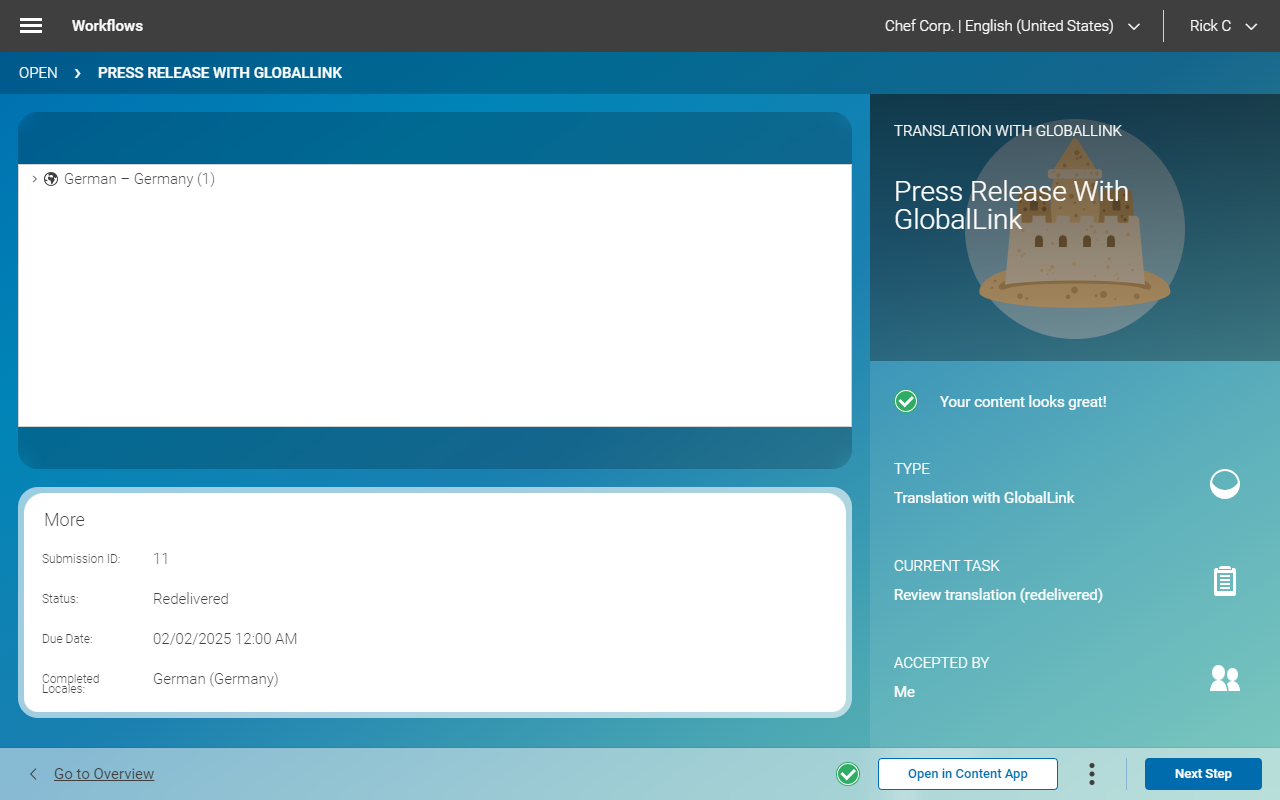
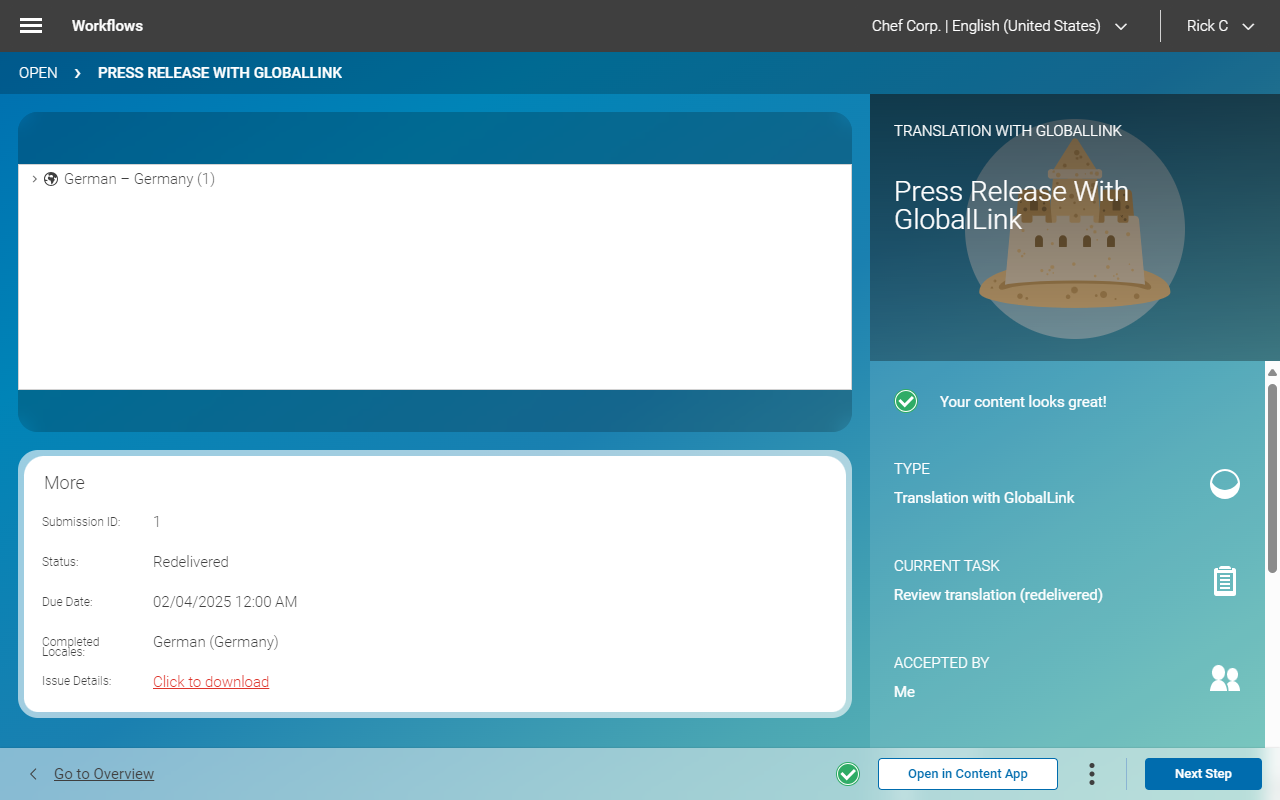
docs: Update Redelivered Section (Editorial Quickstart)
Updated the screenshot to also contain the download XLIFF
button. Also, enhanced the documentation for error handling
to point to the XLIFF download button, available for some
error handling scenarios (invalid XLIFF).

diff --git a/docs/editorial-quick-start.md b/docs/editorial-quick-start.md
@@ -44,6 +44,10 @@ available.
 In case an error occurs, the workflow re-appears in your inbox, and you can 
 select to cancel the workflow, or you can try to fix the problem and retry.
 
+If there was an issue with the XLIFF retrieved from the GCC backend (such as
+being corrupted or invalid), you will have the option to download the XLIFF
+as well as details about the issues (in a ZIP file).
+
 ![GCC Error Handling](img/gcc-connect-error.png)
 
 After the translation is finished, you will receive a notification. The workflow
@@ -58,15 +62,17 @@ Well done.
 
 #### Manual XLIFF Override &amp; Redelivered Submission State
 
-![GCC Redelivered](img/gcc-redelivered.png)
-
 Translators at GlobalLink may decide to mark a submission as redelivered. It is
 expected, that in these cases, the XLIFF is sent via different means to the
 editorial team, like, for example, email. The editorial team can then manually
 upload the XLIFF to the submission in the Workflow app.
 
 This redelivered state is represented as an extra task "Review Translation
-(redelivered)" (with status: "Redelivered").
+(redelivered)" (with status: "Redelivered"). If, as expected, the original
+XLIFF provided by the GCC backend had issues, you can download the (corrupted)
+XLIFF along with its issue details just as for the error handling.
+
+![GCC Redelivered](img/gcc-redelivered.png)
 
 ### Pitfalls
 
